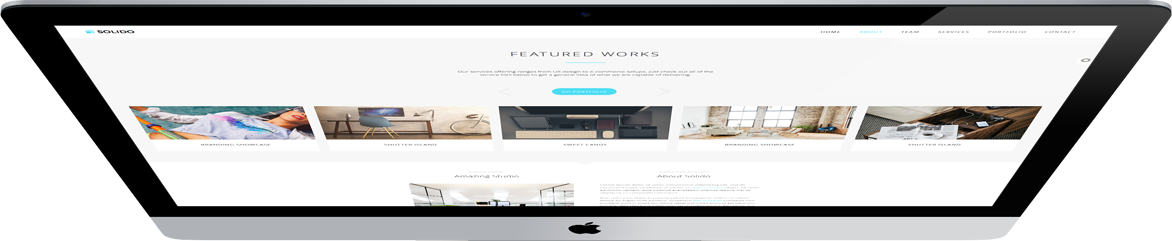
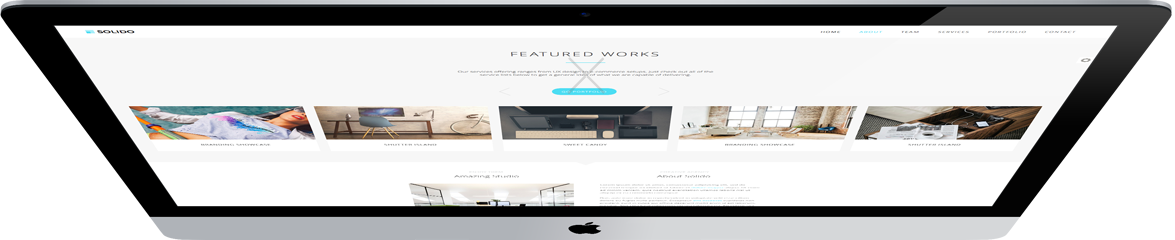
finished slider in Studio section

diff --git a/styles/style.css b/styles/style.css
@@ -267,12 +267,30 @@ span {
   width: 43%;
   text-align: center; }
   .amazing h4 {
-    margin-bottom: 8%; }
+    margin-bottom: 5%; }
+
+.slider {
+  width: 85%;
+  background: white;
+  margin: 0 auto; }
+
+.slick-dots li {
+  border: 1px solid #888888;
+  border-radius: 50%;
+  background: white;
+  transition: 1s; }
+  .slick-dots li:hover {
+    background: #4cddf3;
+    border: 1px solid #4cddf3; }
+
+.studioWork img {
+  width: 100%;
+  height: auto; }
 
 .about {
   width: 43%; }
   .about h4 {
-    margin-bottom: 12%; }
+    margin-bottom: 7%; }
   .about p:first-child, .about h4 {
     text-align: center; }
   .about p:nth-of-type(2) {
@@ -324,6 +342,9 @@ span {
 
 .teamPic {
   width: 100%; }
+  .teamPic:hover {
+    background: black;
+    opacity: 0.7; }
 
 .teamName {
   padding-top: 6%;
@@ -445,6 +466,8 @@ span {
     padding-top: 3%; }
   .contactUsHeader p {
     padding-top: 3%; }
+  .contactUsHeader img {
+    padding-bottom: 5px; }
 
 .contactOffice, .contactHours, form {
   width: 30%; }

diff --git a/slick/slick-theme.css b/slick/slick-theme.css
@@ -123,7 +123,7 @@
 .slick-dots
 {
     position: absolute;
-    bottom: -45px;
+    bottom: -55px;
 
     display: block;
 
@@ -140,10 +140,10 @@
 
     display: inline-block;
 
-    width: 20px;
-    height: 20px;
-    margin: 0 5px;
-    padding: 0;
+    width: 12px;
+    height: 12px;
+    margin: 10px 10px;
+    padding: 5px;
 
     cursor: pointer;
 }
@@ -156,7 +156,7 @@
 
     width: 20px;
     height: 20px;
-    padding: 5px;
+    /*padding: 5px;*/
 
     cursor: pointer;
 
@@ -182,17 +182,17 @@
     line-height: 20px;
 
     position: absolute;
-    top: 0;
-    left: 0;
+    top: 15px;
+    left: 15px;
 
-    width: 20px;
-    height: 20px;
+    width: 15px;
+    height: 15px;
 
     content: '•';
     text-align: center;
 
     opacity: .25;
-    color: black;
+    /*color: black;*/
 
     -webkit-font-smoothing: antialiased;
     -moz-osx-font-smoothing: grayscale;
@@ -200,5 +200,5 @@
 .slick-dots li.slick-active button:before
 {
     opacity: .75;
-    color: black;
+    /*color: black;*/
 }

diff --git a/styles/styles.scss b/styles/styles.scss
@@ -190,19 +190,41 @@ span{
 	width: 43%;
 	text-align:center;
 	h4{
-		margin-bottom:8%;
+		margin-bottom:5%;
 	}
 }
 
-// .grey{
-// 	background: $lightgrey;
-// 	height:275px;
-// }
+.slider{
+	width: 85%;
+	background: white;
+	margin:0 auto;
+}
+
+.slick-dots{
+}
+
+.slick-dots li{
+	border:1px solid $main;
+	border-radius:50%;
+	background: white;
+	transition:1s;
+	&:hover{
+		background: $seagreen;
+		border:1px solid $seagreen;
+	}
+}
+
+.studioWork{
+	img{
+		width: 100%;
+		height:auto;
+	}
+}
 
 .about{
 	width: 43%;
 	h4{
-		margin-bottom:12%;
+		margin-bottom:7%;
 	}
 	p:first-child, h4{
 		text-align:center;
@@ -285,6 +307,10 @@ span{
 
 .teamPic{
 	width: 100%;
+	&:hover{
+		background: black;
+		opacity:0.7;
+	}
 }
 
 .teamName{
@@ -473,6 +499,9 @@ span{
 	}
 	p{
 		padding-top:3%;
+	}
+	img{
+		padding-bottom:5px;
 	}
 }
 

diff --git a/index.html b/index.html
@@ -69,9 +69,15 @@
 						<h4 class="commonh4">Amazing Studio</h4>
 
 						<div class="slider">
-							<div>1</div>
-							<div>2</div>
-							<div>3</div>
+							<div class="studioWork">
+								<img src="assets/studioWork_03.jpg" alt="">
+							</div>
+							<div class="studioWork">
+								<img src="assets/studioWork_04.jpg" alt="">
+							</div>
+							<div class="studioWork">
+								<img src="assets/studioWork_06.jpg" alt="">
+							</div>
 						</div> <!-- END OF SLIDER -->
 
 					</div> <!-- END OF AMAZING -->			

diff --git a/scripts/scripts.js b/scripts/scripts.js
@@ -1,5 +1,9 @@
 // Slider in Studio Section
 
 $(document).ready(function(){
-	$('.slider').slick();
+	$('.slider').slick({
+		dots:true,
+		arrows:false,
+		speed:300
+	});
 });
